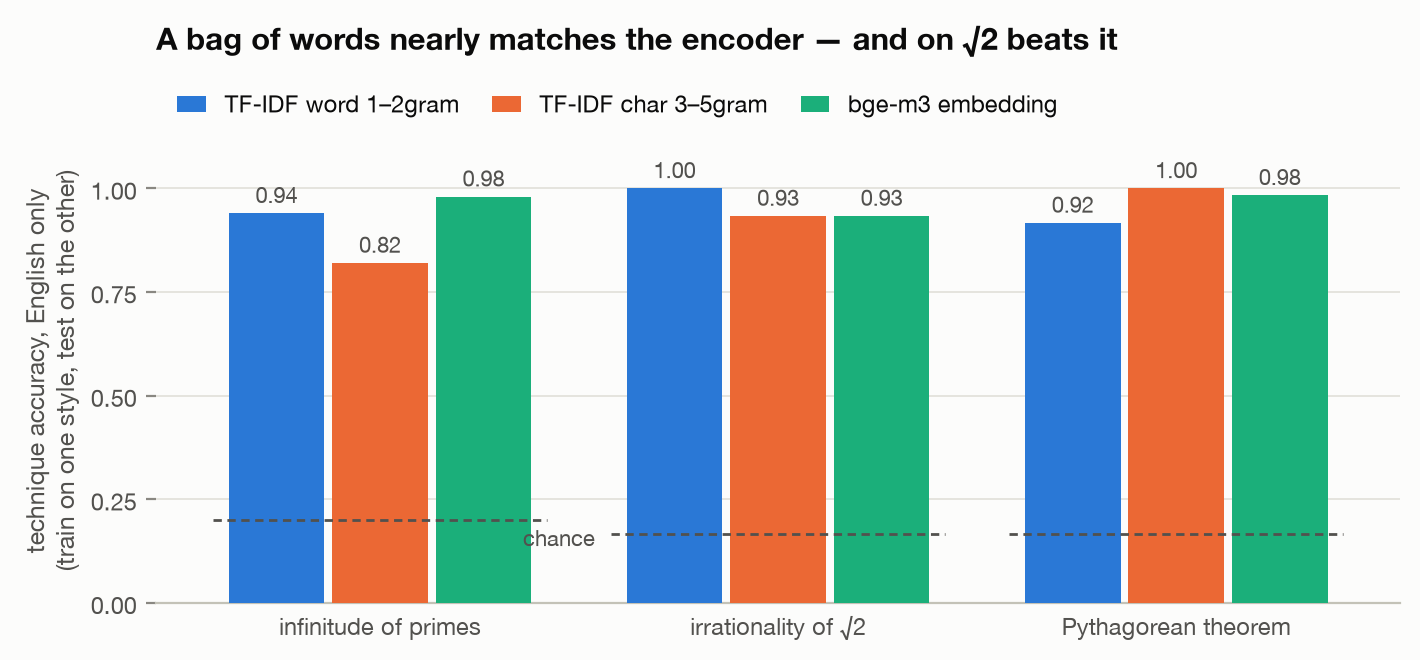
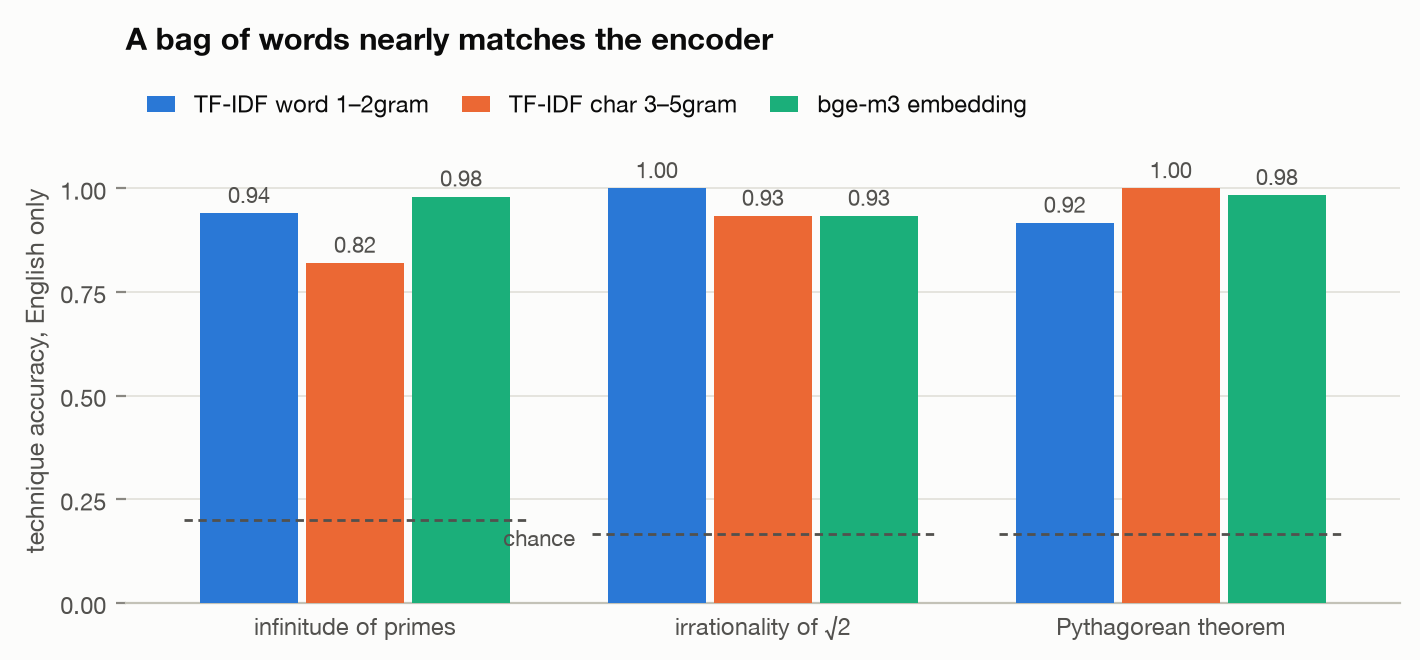
amend figures

diff --git a/analysis/graphs.py b/analysis/graphs.py
@@ -284,10 +284,8 @@ def fig_transfer(data):
     ax.set_yticks(range(len(THEOREMS)), [TITLES[t] for t in THEOREMS])
     ax.tick_params(length=0)
     despine(ax, keep=())
-    ax.set_xlabel("technique probe trained on English, applied frozen to…")
-    ax.set_title("Cross-lingual technique transfer on raw embeddings\n"
-                 "chance 0.17–0.20 · an earlier 768-d encoder managed "
-                 "0.62 (zh), 0.50 (ja)",
+    ax.set_xlabel("technique probe trained on English, applied to…")
+    ax.set_title("Cross-lingual technique transfer on raw embeddings",
                  fontsize=9.5, loc="left")
     fig.tight_layout()
     fig.savefig(OUT / "fig3_transfer.png", bbox_inches="tight")
@@ -352,12 +350,11 @@ def fig_lexical(data):
     ax.set_yticks((0, 0.25, 0.5, 0.75, 1.0))
     ax.grid(axis="y", zorder=0)
     despine(ax, keep=("bottom",))
-    ax.set_ylabel("technique accuracy, English only\n"
-                  "(train on one style, test on the other)")
+    ax.set_ylabel("technique accuracy, English only")
     ax.legend(loc="lower left", bbox_to_anchor=(0, 1.0), ncols=3,
               columnspacing=1.4, handlelength=1.2)
-    ax.set_title("A bag of words nearly matches the encoder — and on "
-                 "√2 beats it", loc="left", fontsize=11,
+    ax.set_title("A bag of words nearly matches the encoder",
+                 loc="left", fontsize=11,
                  fontweight="bold", pad=32)
     fig.tight_layout()
     fig.savefig(OUT / "fig4_lexical.png", bbox_inches="tight")
@@ -422,11 +419,6 @@ def fig_masking(data):
     ax.set_ylabel("TF-IDF technique accuracy")
     ax.set_title("No small set of keywords carries the technique label",
                  loc="left", fontsize=11, fontweight="bold", pad=26)
-    lo, hi = min(kept.values()), max(kept.values())
-    ax.text(0, 1.03, "a slope, not a cliff: ~400 word types before a bag "
-            "of words is at or near chance, with "
-            f"{lo:.0%}–{hi:.0%} of the English text still on the page",
-            transform=ax.transAxes, fontsize=9, color=INK2, va="bottom")
     fig.tight_layout()
     fig.savefig(OUT / "fig5_masking.png", bbox_inches="tight")
     plt.close(fig)
@@ -483,14 +475,9 @@ def fig_masked_transfer():
         ax.set_title(f"{head}\nmean {mu:.3f}", fontsize=9.5)
         ax.set_xlabel("technique probe applied to…")
     axes[0].set_ylabel("trained on")
-    axes[0].text(0, 1.30, "With the give-away vocabulary gone, transfer "
-                 "drops but does not die", transform=axes[0].transAxes,
+    axes[0].text(0, 1.30, "Infinitude of primes technique probe between "
+                 "masked and unmasked embeds", transform=axes[0].transAxes,
                  fontsize=12, fontweight="bold", va="bottom")
-    axes[0].text(0, 1.19, "infinitude of primes, bge-m3 · dashed: the "
-                 "Latin/CJK blocks, 0.94 to 0.56 · chance 0.20 · the "
-                 "same masked corpus puts TF-IDF at chance",
-                 transform=axes[0].transAxes, fontsize=9, color=INK2,
-                 va="bottom")
     fig.tight_layout()
     fig.savefig(OUT / "fig8_masked_transfer.png", bbox_inches="tight")
     plt.close(fig)
